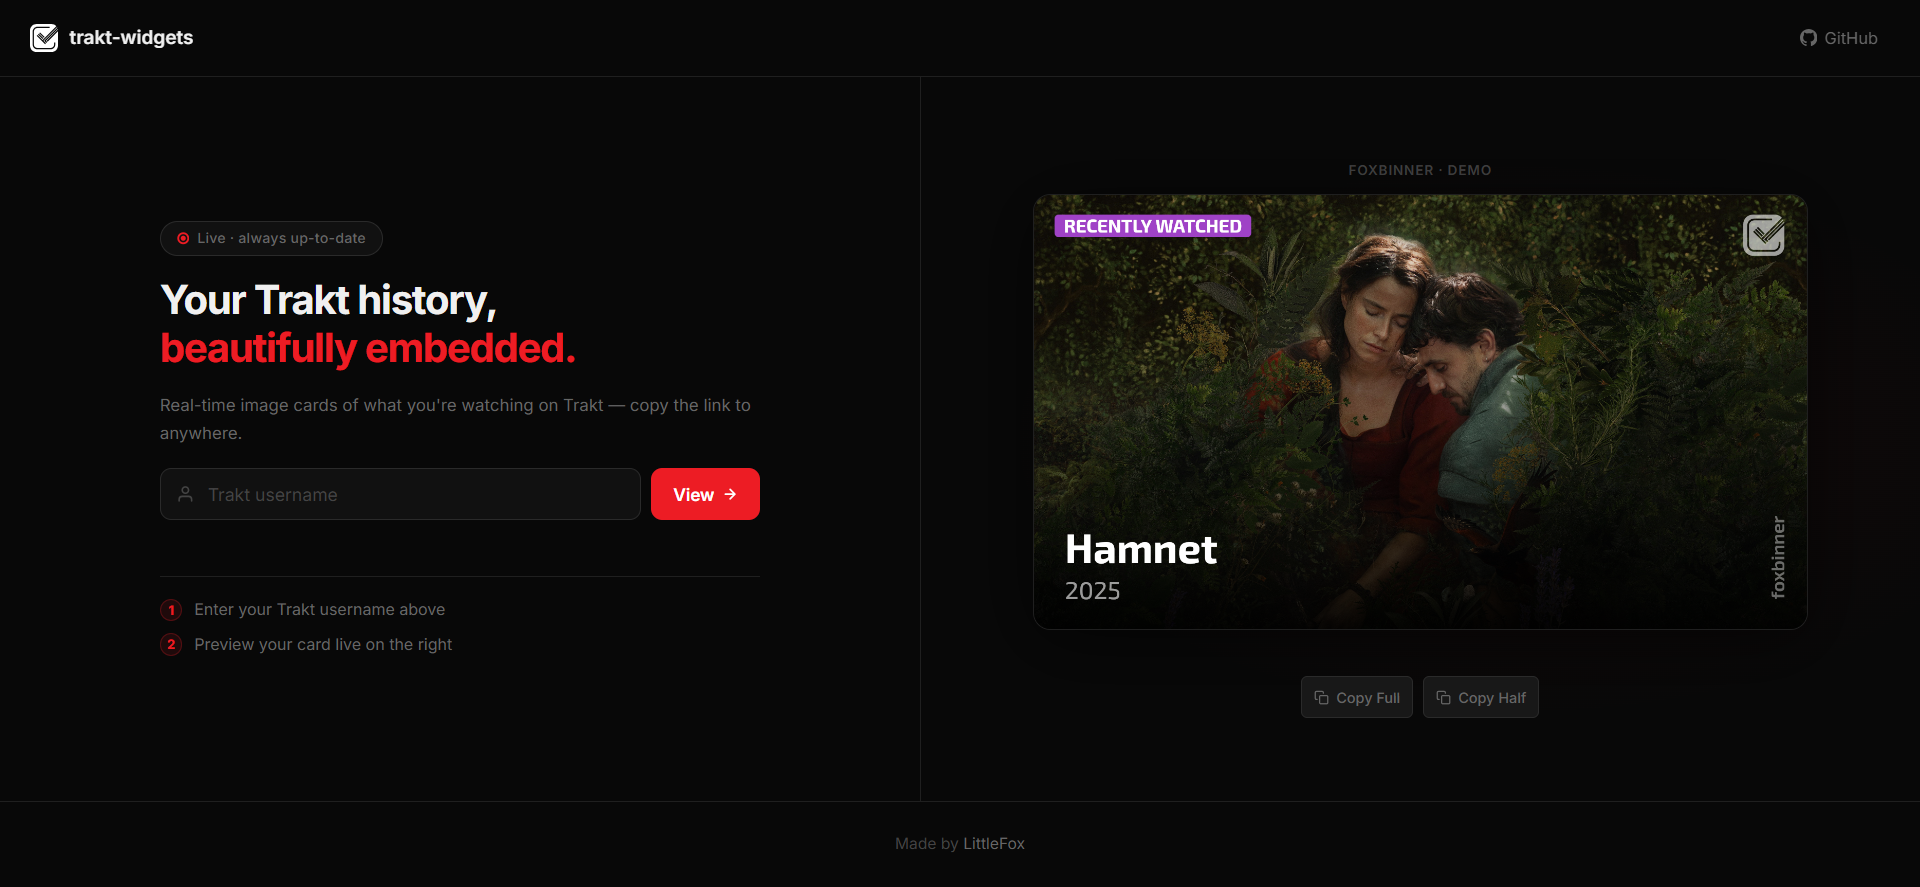
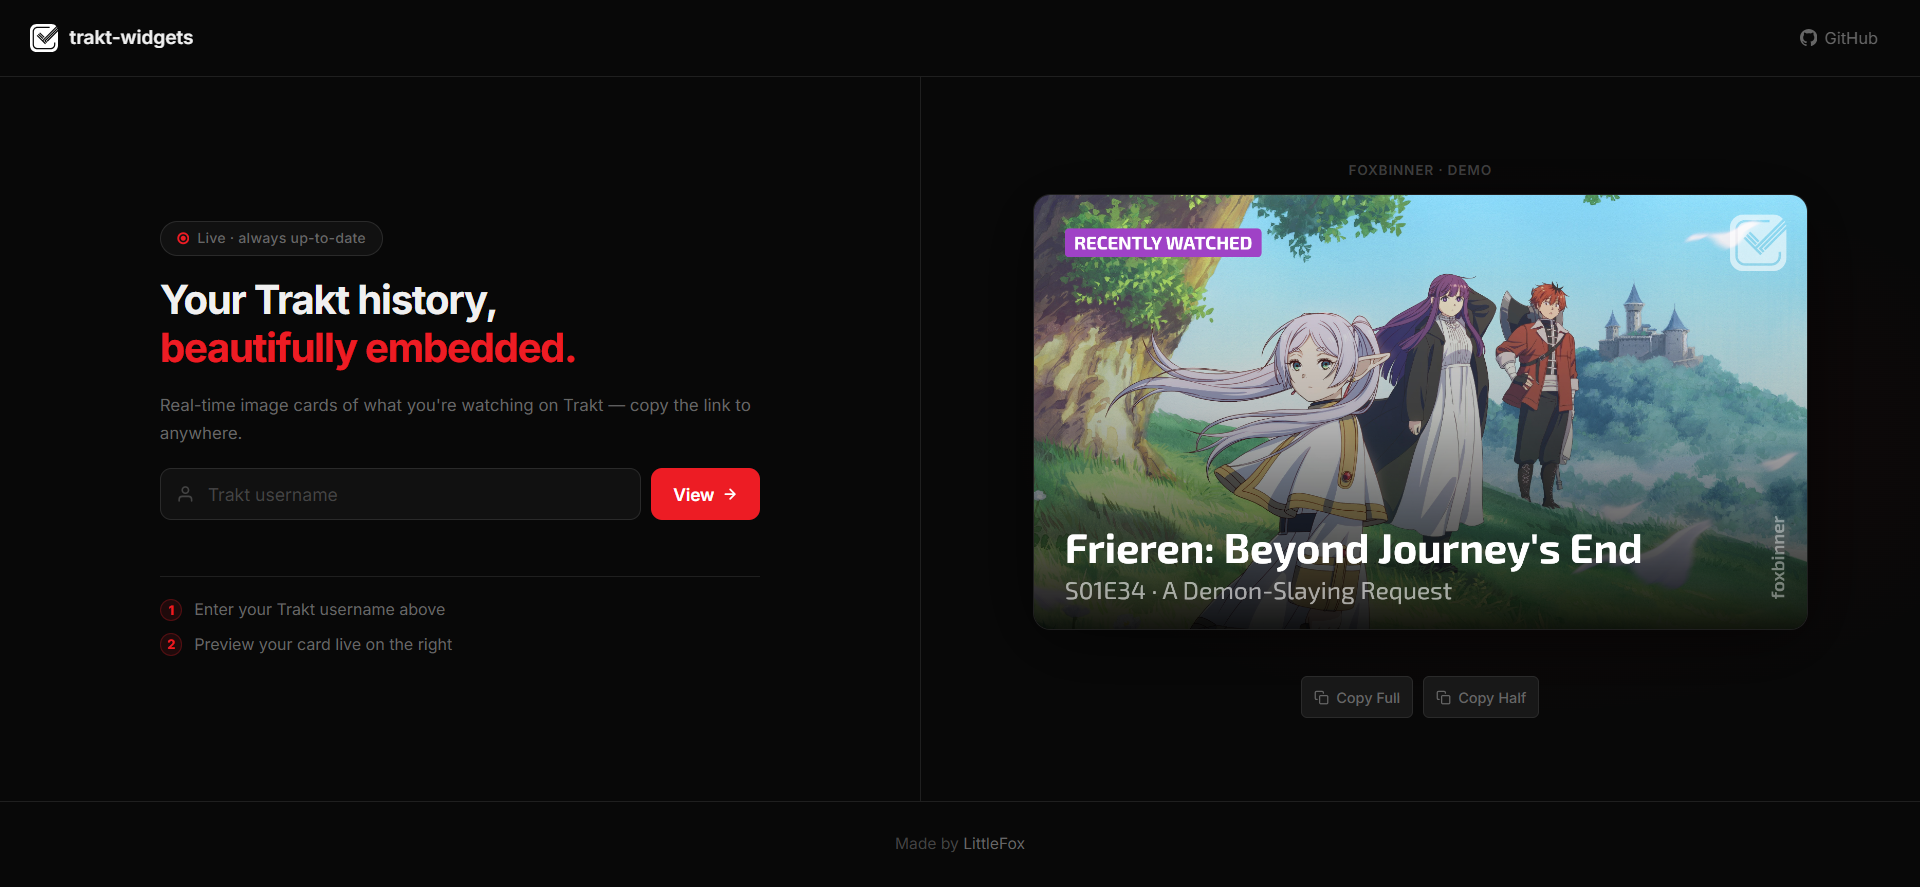
Update README links, refresh screenshot
Replace occurrences of "trakt-card.vercel.app" with "traktrack.vercel.app" in the README (badge, image src, and example URLs) and update the public/pictures/screenshot.png binary. This points documentation and demo links to the new deployment/domain and refreshes the screenshot to match.

Changed region(s): [[0.5312, 0.2131, 0.9688, 0.7001]]

diff --git a/README.md b/README.md
@@ -5,7 +5,7 @@
 **Dynamically generated cards showing what you last watched on [Trakt.tv](https://trakt.tv)**  
 Embed them in any README, website, or profile — as a PNG or live viewer.
 
-[![Live Demo](https://img.shields.io/badge/Live%20Demo-trakt--card.vercel.app-red?style=for-the-badge&logo=vercel)](https://trakt-card.vercel.app)
+[![Live Demo](https://img.shields.io/badge/Live%20Demo-traktrack.vercel.app-red?style=for-the-badge&logo=vercel)](https://traktrack.vercel.app)
 [![License: MIT](https://img.shields.io/badge/License-MIT-blue?style=for-the-badge)](LICENSE)
 
 ![Screenshot](public/pictures/screenshot.png)
@@ -23,7 +23,7 @@ Drop this anywhere — GitHub README, personal site, anywhere you can render an 
 ```html
 <!-- Last watched -->
 <img
-  src="https://trakt-card.vercel.app/{username}/watched.png"
+  src="https://traktrack.vercel.app/{username}/watched.png"
   alt="Last watched"
 />
 ```
@@ -31,7 +31,7 @@ Drop this anywhere — GitHub README, personal site, anywhere you can render an 
 Visit the URL **without** `.png` to get an auto-refreshing viewer page:
 
 ```
-https://trakt-card.vercel.app/{username}/watched
+https://traktrack.vercel.app/{username}/watched
 ```
 
 ---
